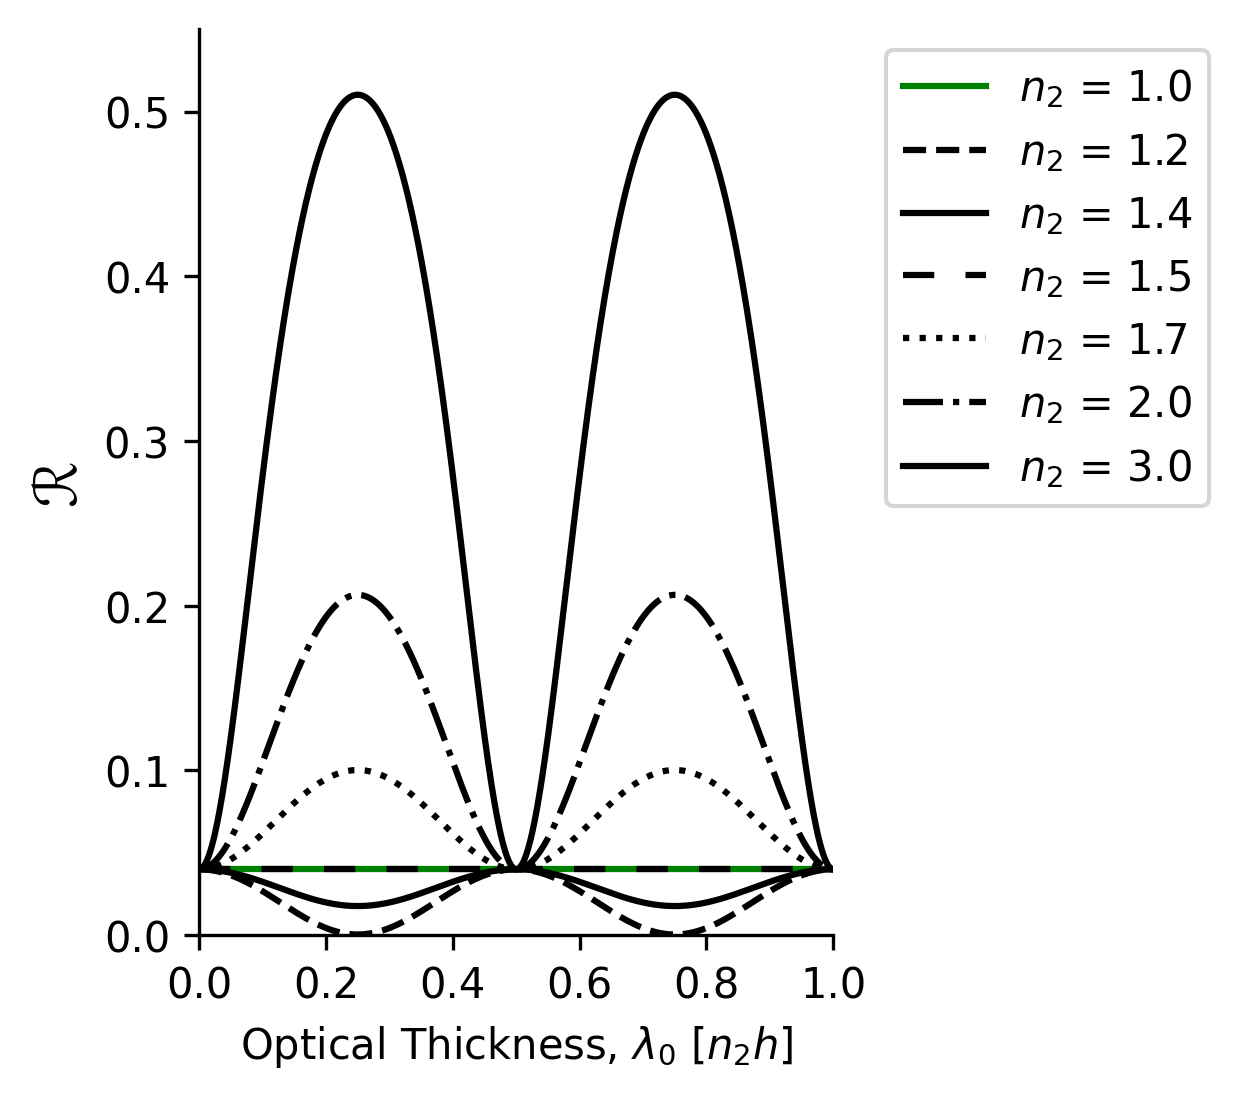
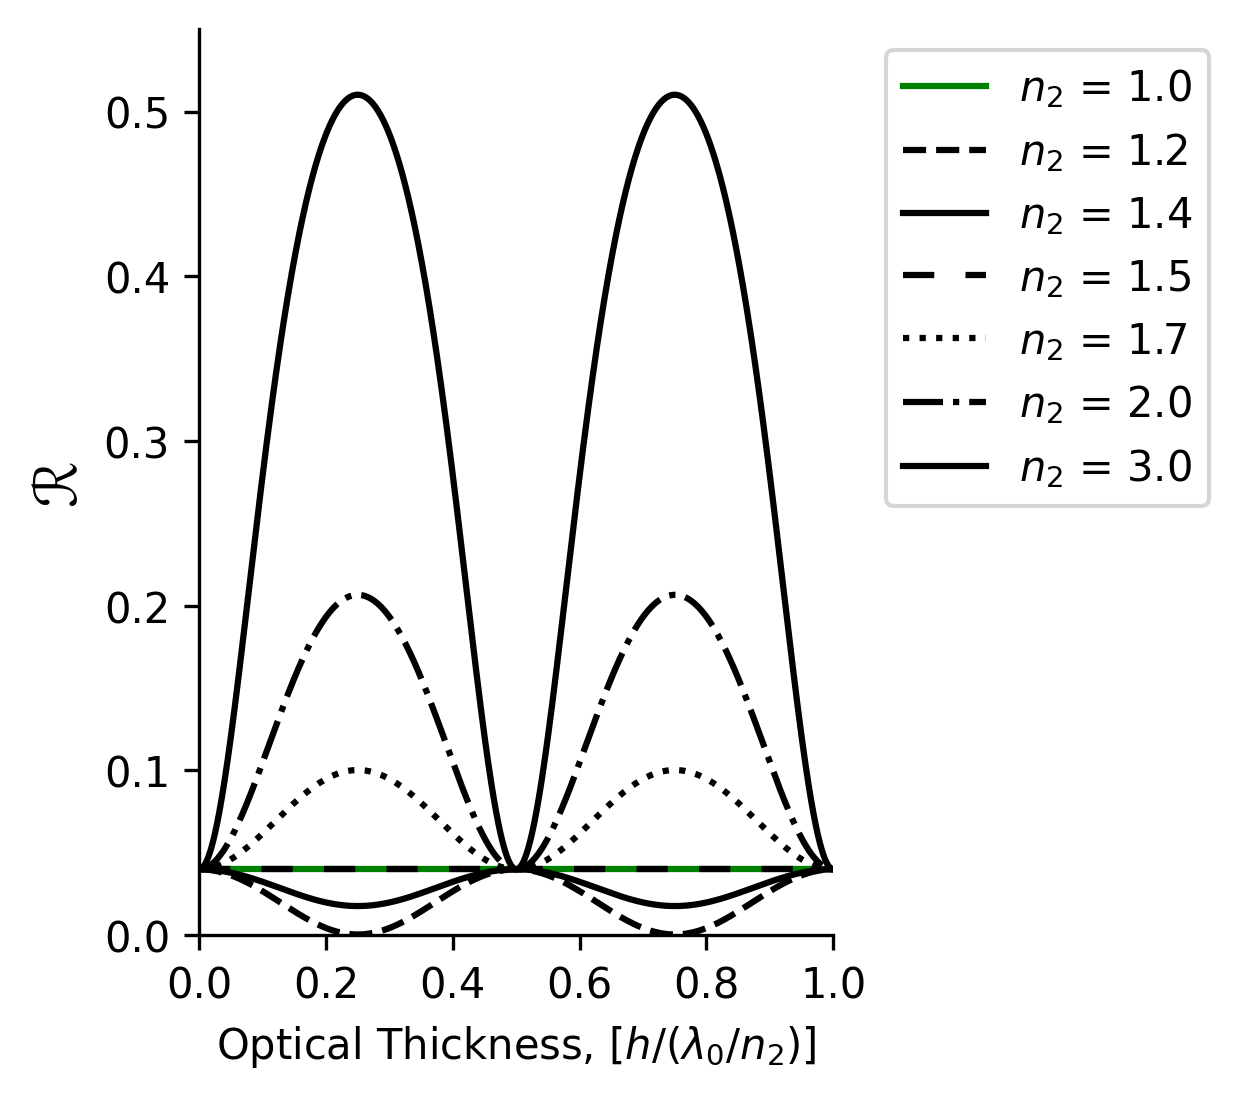
final axis formatting

Changed region(s): [[0.1533, 0.9281, 0.6747, 0.99]]

diff --git a/RandT_HDF.py b/RandT_HDF.py
@@ -76,7 +76,7 @@ ax.spines['right'].set_visible(False)
 ax.spines['top'].set_visible(False)
 ax.yaxis.set_ticks_position('left')
 ax.xaxis.set_ticks_position('bottom')
-plt.xlabel("Optical Thickness, $λ_{0}$ [$n_{2}h$]")
+plt.xlabel("Optical Thickness, [$h/(λ_{0}/n_{2})$]")
 plt.ylabel("ℛ",fontsize=14)
 
 # export figure
